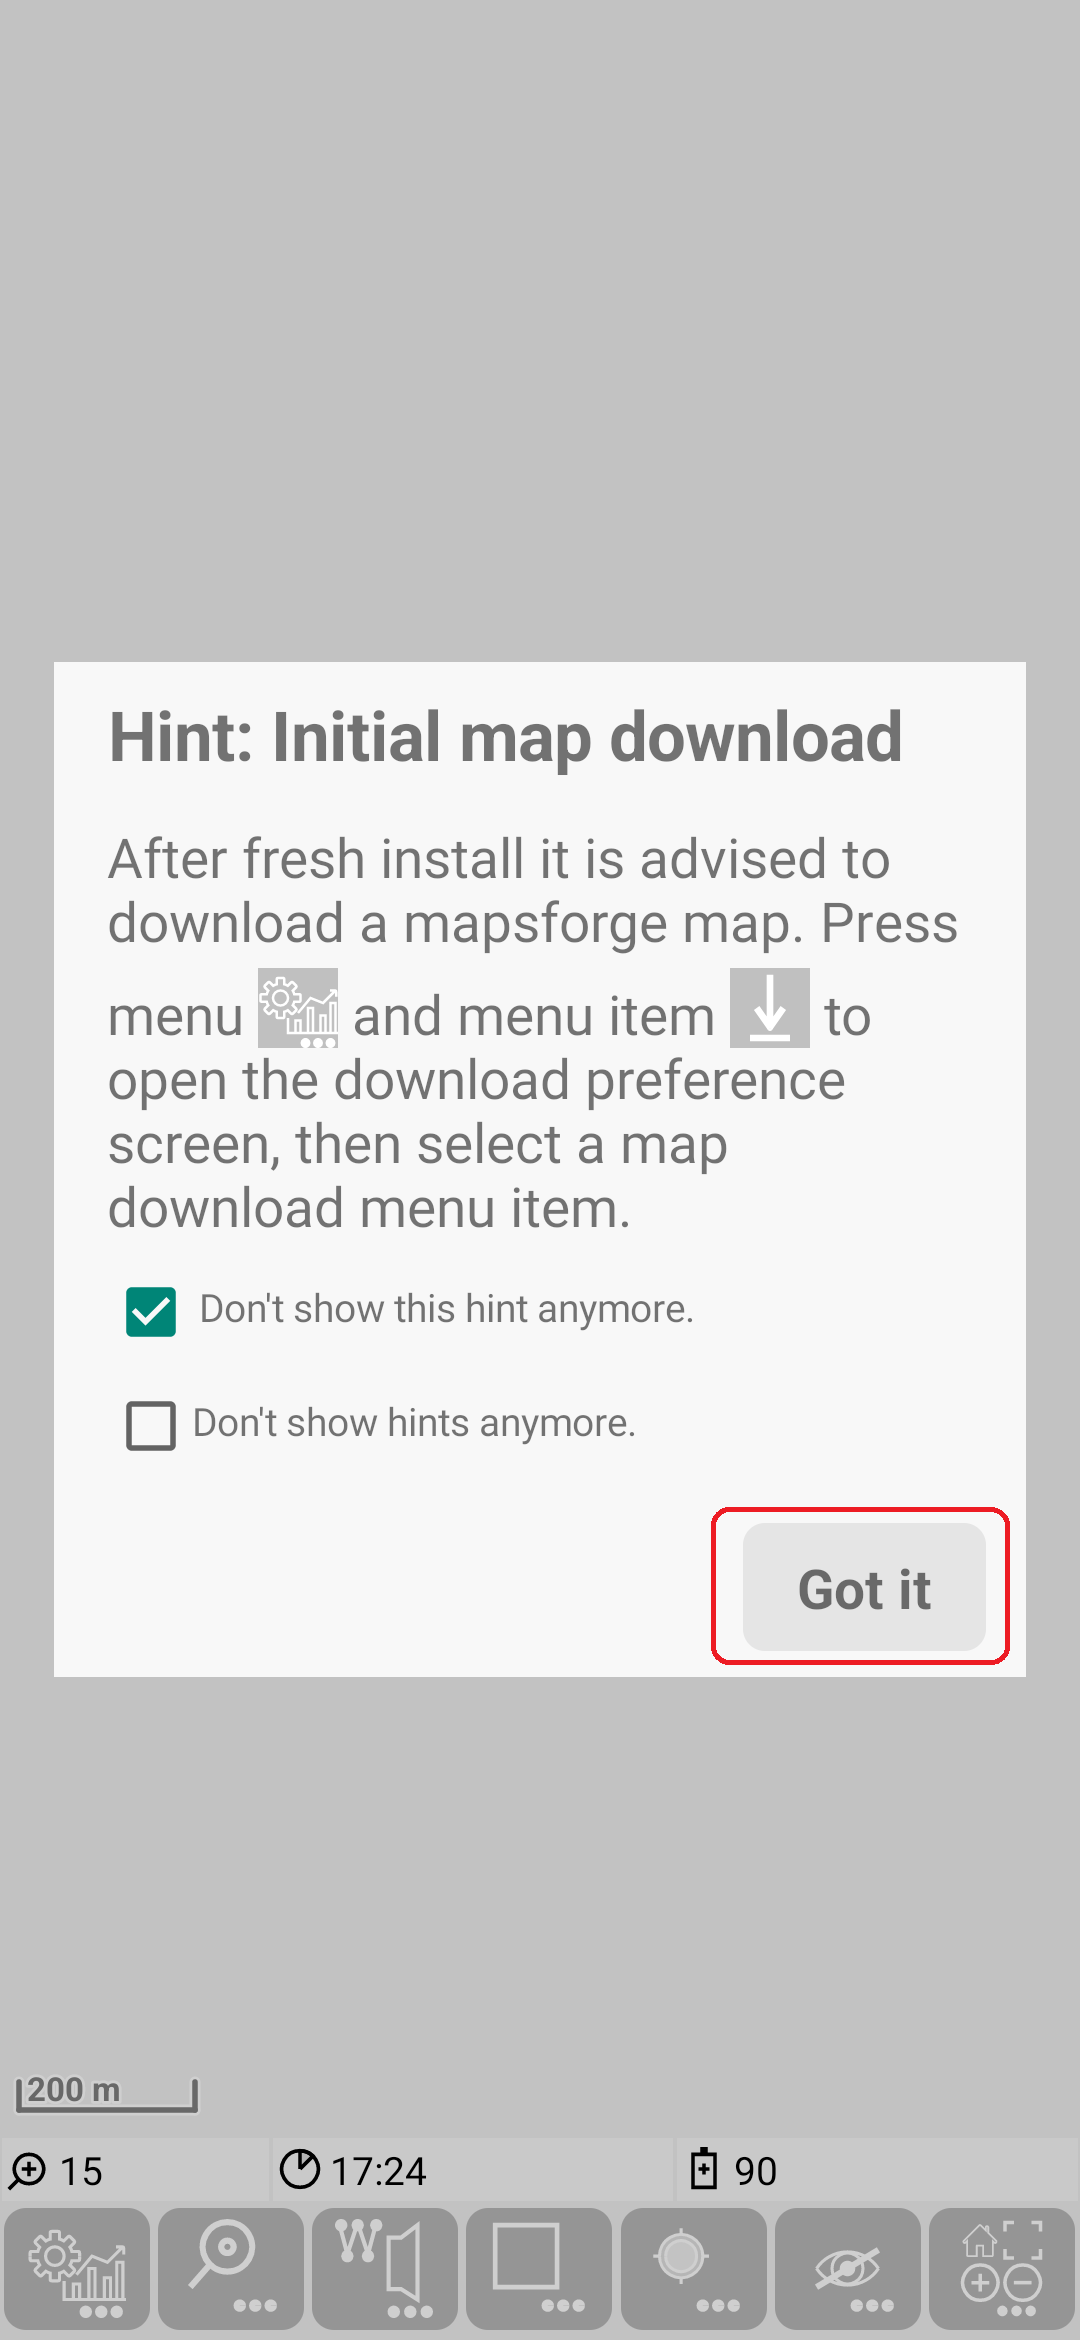
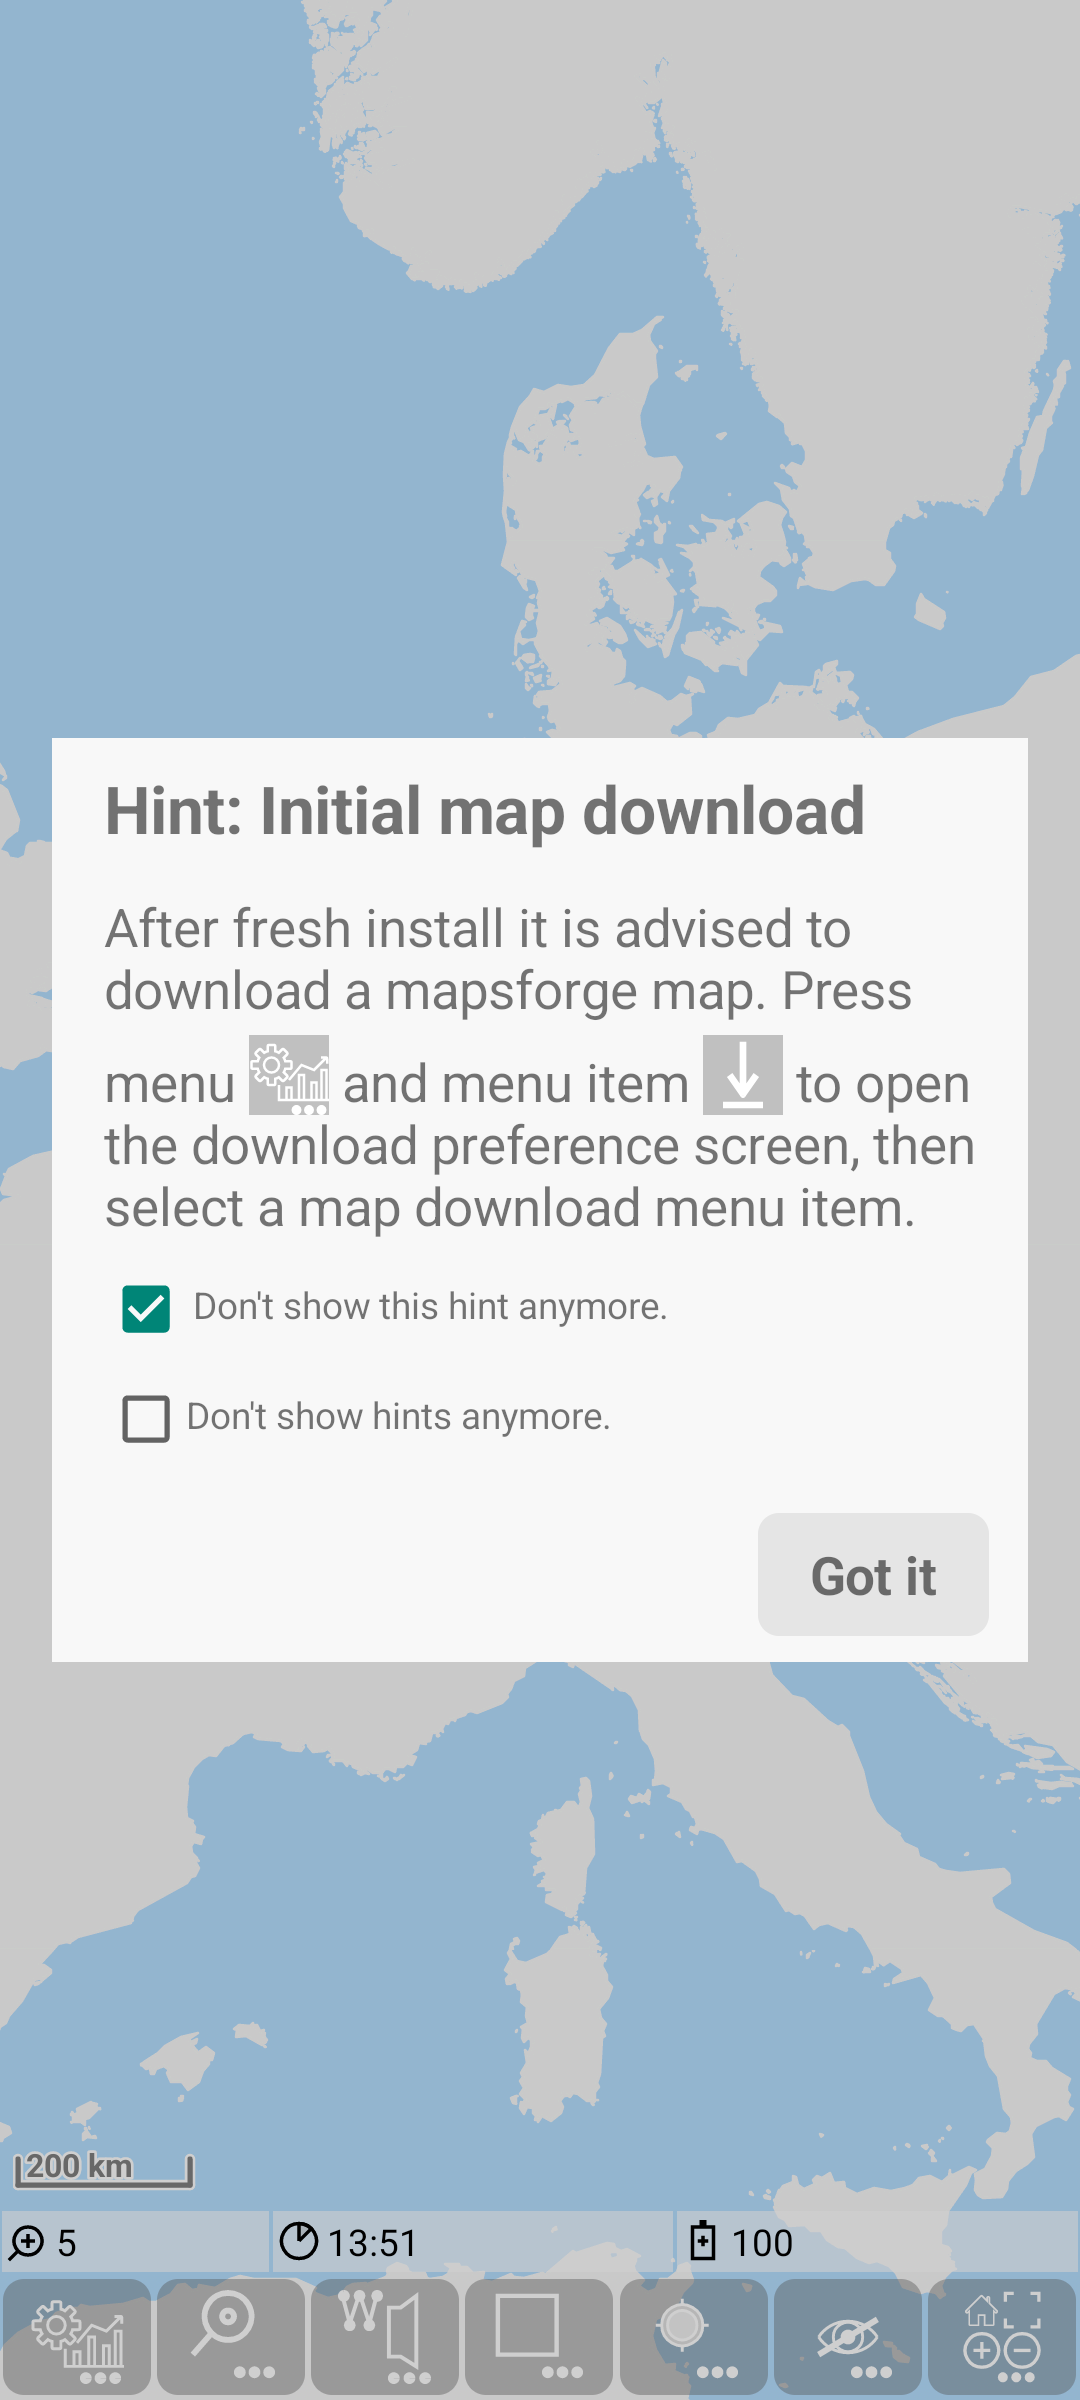
docs - GettingStarted updated

diff --git a/docs/GettingStarted/GettingStarted.md b/docs/GettingStarted/GettingStarted.md
@@ -4,50 +4,41 @@
 
 
 
-1. Just start the app the first time. In the bottom you see the menu quick controls and above the status line with very few information. 
+Just start the app the first time. In the bottom you see the menu quick controls and above the status line with very few information. 
+   In the background you see a world map, which contains mainly the land/see areas.
    Additionally you see the initial map download hint.  
-   <img src="./01_Hint_InitialMapDownload.png" width="200" />&nbsp;
-
    Once you read and understood this, you can close the hint with the "Got it" button. 
-   Since the checkbox <span style="color:gray">*Don't show this hint anymore*</span>
-   is checked, you'll see this hint only once.
  
-2. As the hint advised use <img src="../icons/group_task.svg" width="24"/> and <img src="../icons/download.svg" width="24"/>
+As the hint advised use <img src="../icons/group_task.svg" width="24"/> and <img src="../icons/download.svg" width="24"/>
    to open the download preference screen. Select e.g. <span style="color:gray">*Germany*</span> to open the download webpage of openandromaps for germany. 
-   Before the browser opens you'll see the next hint. Read it carefully and click again the "Got it" button.  
-   <img src="./02_DownloadPreferenceScreen.png" width="200" />&nbsp;
-   <img src="./03_Hint_MapDownload.png" width="200" />&nbsp;
 
-3. If you want to download e.g. the map of Berlin, then scroll a bit down press the "+" button in front
-   of "Berlin", now select the  <span style="color:gray">*Install others*</span> entry with the prefix
-   <span style="color:gray">*Android mf-V5-map*</span>.  
-   <img src="./04_OpenAndroMapsD.png" width="200" />&nbsp;
-   <img src="./05_OpenAndroMaps_Scrolled.png" width="200" />&nbsp;
-   <img src="./06_OpenAndroMaps_Berlin.png" width="200" />&nbsp;
+   <img src="./01_Hint_InitialMapDownload.png" width="300" />&nbsp;
+   <img src="./02_DownloadPreferenceScreen.png" width="300" />&nbsp;
 
-4. With this click the MGMappViewer app opens again and you will be ask to confirm the download of the requested map.
+If you want to download e.g. the map of Berlin, just press the <span style="color:gray">*Karte/Map+Poi*</span> button in the Berlin row.
+
+   <img src="./03_OpenAndroMaps_Berlin.png" width="300" />&nbsp;
+
+With this click the MGMappViewer app opens again and you will be ask to confirm the download of the requested map.
    The download itself may take some time (depending on the map size and your internet speed). For long lasting downloads there is a 
    countdown of the remaining download effort in the status line visible.
-   Once the download is finish you'll see the result and that you can assign the map now to a layer.  
-   <img src="./07_DownloadMap_Cofirm.png" width="200" />&nbsp;
-   <img src="./08_DownloadMap_Result.png" width="200" />&nbsp;
+   Once the download is finish you'll see the result.  
+   
+   <img src="./04_DownloadMap_Cofirm.png" width="300" />&nbsp;
+   <img src="./05_DownloadMap_Result2.png" width="300" />&nbsp;
 
-5. After the "OK" on the map download results the app opens automatically the settings screen with the map layer assignment and the 
-   corresponding hint. Read the instruction and follow it. Click on <span style="color:gray">*Select map layer 2*</span> and then select the 
-   <span style="color:gray">*MAPSFORGE: Berlin_oam.osm.map*</span> entry. Now this map is assigned to layer 2. Use the Android
-   <span style="color:gray">*Back*</span> button to go back the the main activity.
+Now you will be asked to download the corresponding height data. Confirm this and also the result of the download. 
+ 
+   <img src="./06_AutoDownloadHgt_Confirm.png" width="300" />&nbsp;
+   <img src="./07_AutoDownloadHgt_Result.png" width="300" />&nbsp;
+   
+Now the Berlin map is successfully loaded, just zoom in (by double tap or gesture) to see more.
 
-   <img src="./09_Hint_MapLayerAssignment.png" width="190" />&nbsp;
-   <img src="./10_MaplLayers.png" width="190" />&nbsp;
-   <img src="./11_MapLayer2_Selection.png" width="190" />&nbsp;
-   <img src="./12_MapLayer2_assigned.png" width="190" />
+   <img src="./08_MapBerlin_finished.png" width="200" />&nbsp;
+   <img src="./09_MapBerlin_finished.png" width="200" />&nbsp;
+   <img src="./10_MapBerlin_finished.png" width="200" />&nbsp;
 
-6. Back in the main MGMapActivity you will be asked to download the corresponding height data. Confirm this and also the result of the download.  
-   <img src="./13_AutoDownloadHgt_Confirm.png" width="200" />&nbsp;
-   <img src="./14_AutoDownloadHgt_Result.png" width="200" />&nbsp;
-   <img src="./15_MapBerlin_finished.png" width="200" />&nbsp;
-
-   Congratulations! - the first map is visible.
+Congratulations! - thats all.
 
 
 <small><small>[Back to Index](../index.md)</small></small>
